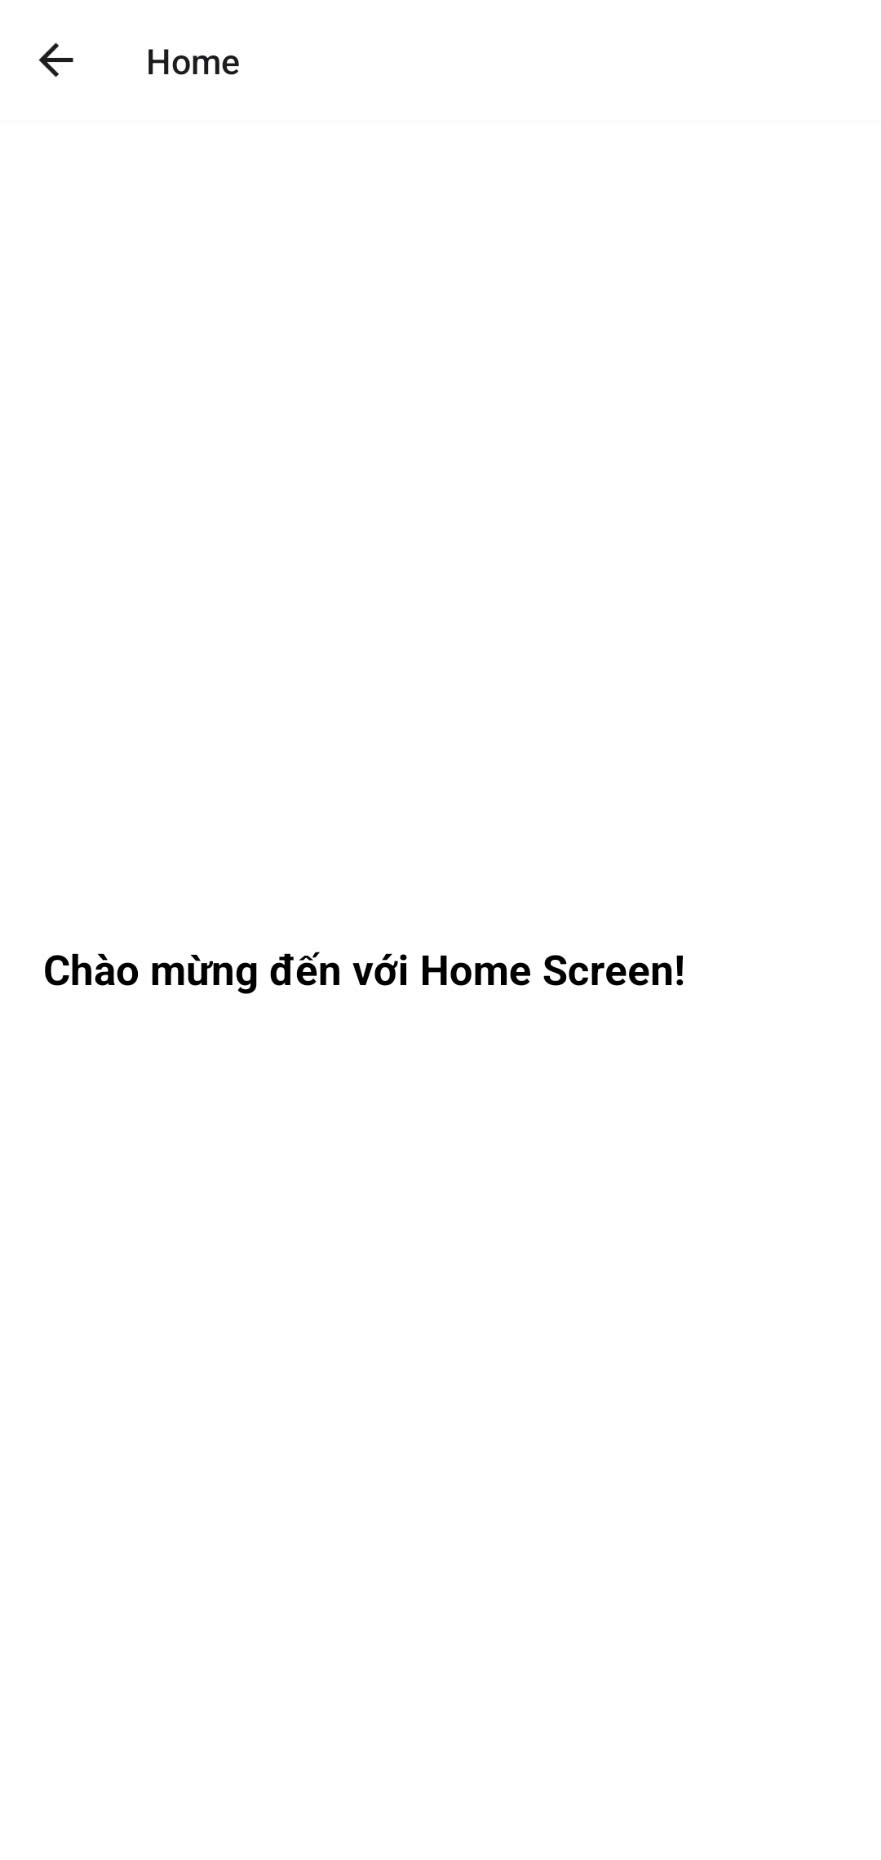
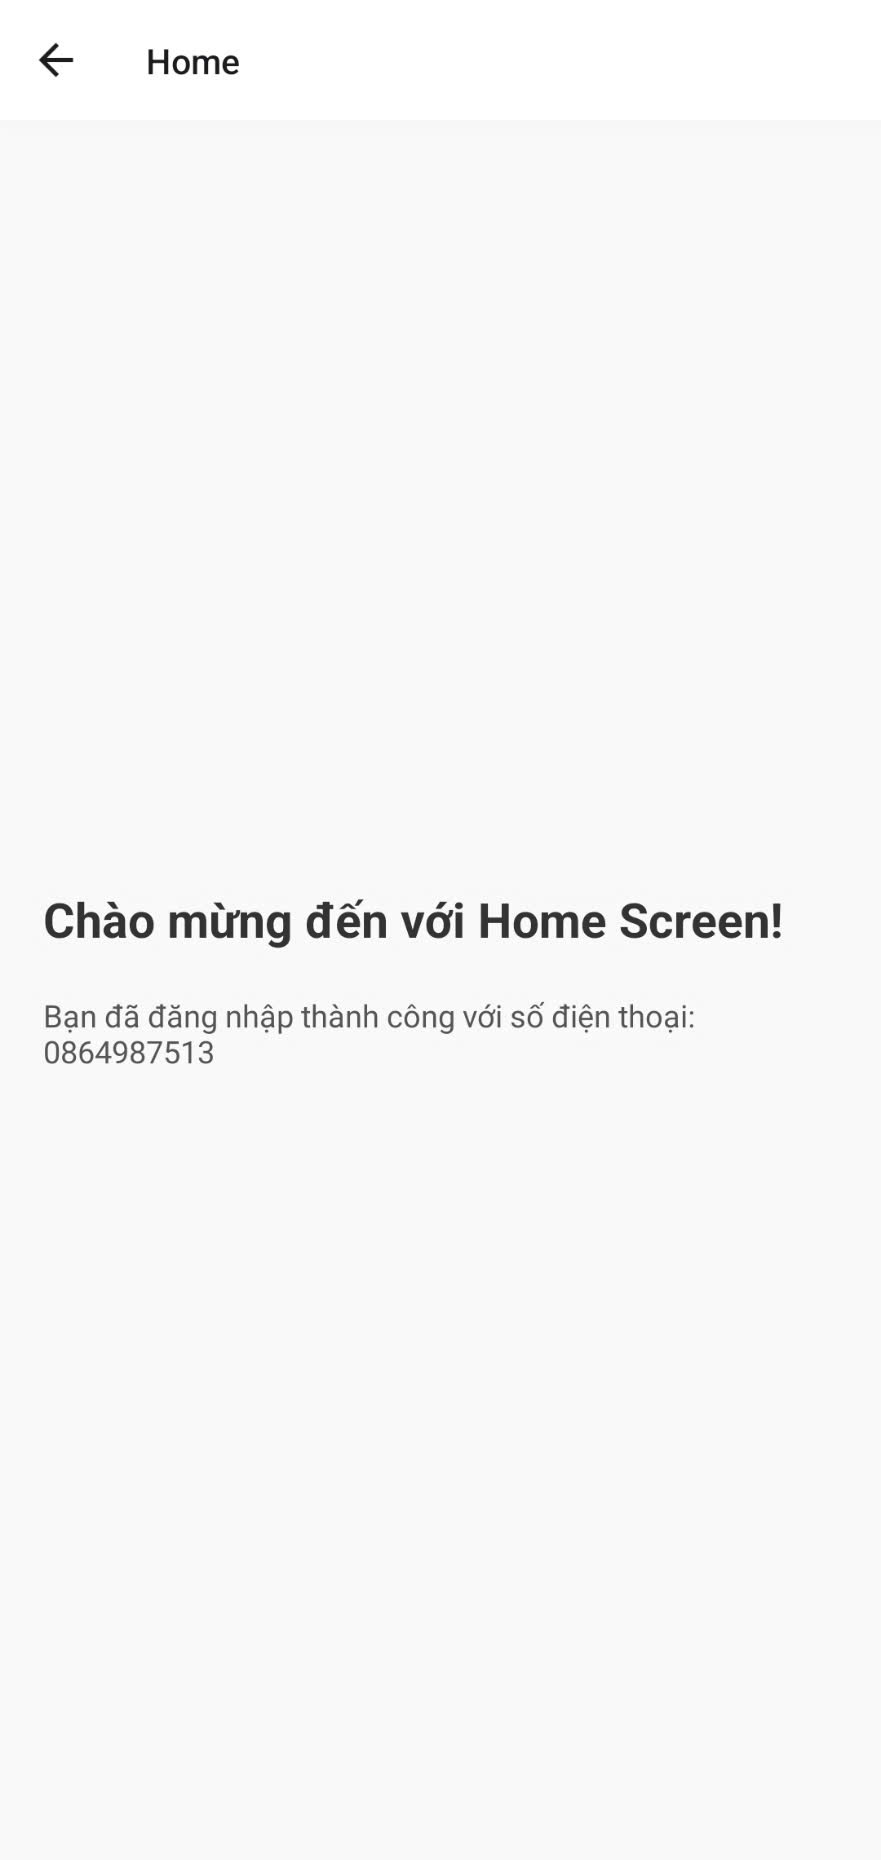
noi dung

Changed region(s): [[0.0306, 0.4677, 0.8888, 0.5925]]

diff --git a/App.js b/App.js
@@ -1,23 +1,28 @@
-import React, { useState, useEffect, useCallback, useMemo, memo } from "react";
+import React, { useState, useEffect, createContext, useContext } from "react";
 import {
   StyleSheet,
   Text,
   View,
   TextInput,
-  Button,
+  TouchableOpacity,
   Alert,
   AppState,
 } from "react-native";
 import { NavigationContainer } from "@react-navigation/native";
 import { createStackNavigator } from "@react-navigation/stack";
 
-const Stack = createStackNavigator();
+// Tạo PhoneContext để lưu số điện thoại
+const PhoneContext = createContext();
 
 // Màn hình Home
 const HomeScreen = () => {
+  const { phone } = useContext(PhoneContext); // Lấy số điện thoại từ context
+
   return (
     <View style={styles.container}>
       <Text style={styles.title}>Chào mừng đến với Home Screen!</Text>
+      {/* Thay đổi văn bản hiển thị số điện thoại */}
+      <Text style={styles.label}>Bạn đã đăng nhập thành công với số điện thoại: {phone}</Text>
     </View>
   );
 };
@@ -25,25 +30,23 @@ const HomeScreen = () => {
 // Màn hình Đăng nhập
 const SignInScreen = ({ navigation }) => {
   const [phone, setPhone] = useState("");
+  const { setPhoneContext } = useContext(PhoneContext); // Hàm để cập nhật số điện thoại vào context
 
-  // Hàm kiểm tra số điện thoại có hợp lệ không
   const validatePhoneNumber = (phone) => {
     const phoneRegex = /^(09|03|07|08|05)\d{8}$/; // Số điện thoại Việt Nam hợp lệ
-    return phoneRegex.test(phone.replace(/\D/g, "")); // Loại bỏ ký tự không phải số và kiểm tra
+    return phoneRegex.test(phone.replace(/\D/g, ""));
   };
 
-  // Hàm xử lý khi nhấn nút "Tiếp tục"
   const handleContinue = () => {
     const cleanedPhone = phone.replace(/\D/g, ""); // Loại bỏ ký tự không phải số
     if (validatePhoneNumber(cleanedPhone)) {
-      // Điều hướng đến HomeScreen khi số điện thoại hợp lệ
-      navigation.navigate("Home");
+      setPhoneContext(cleanedPhone);
+      navigation.navigate("Home"); // Điều hướng đến HomeScreen
     } else {
       Alert.alert("Số điện thoại không hợp lệ!");
     }
   };
 
-  // Hàm tự động định dạng số điện thoại khi nhập
   const formatPhoneNumber = (input) => {
     const cleaned = input.replace(/\D/g, "");
     const formatted = cleaned
@@ -63,10 +66,12 @@ const SignInScreen = ({ navigation }) => {
         style={styles.input}
         placeholder="Nhập số điện thoại của bạn"
         keyboardType="numeric"
-        value={formatPhoneNumber(phone)} // Tự động format số điện thoại khi nhập
-        onChangeText={(text) => setPhone(text)} // Cập nhật state khi nhập
+        value={formatPhoneNumber(phone)}
+        onChangeText={(text) => setPhone(text)}
       />
-      <Button title="Tiếp tục" onPress={handleContinue} />
+      <TouchableOpacity style={styles.button} onPress={handleContinue}>
+        <Text style={styles.buttonText}>Tiếp tục</Text>
+      </TouchableOpacity>
     </View>
   );
 };
@@ -74,11 +79,9 @@ const SignInScreen = ({ navigation }) => {
 // Component chính
 const App = () => {
   const [appState, setAppState] = useState(AppState.currentState);
+  const [phone, setPhoneContext] = useState(""); // State để lưu số điện thoại toàn cục
 
   useEffect(() => {
-    // Hiển thị thông báo chỉ một lần khi ứng dụng được mở
-    Alert.alert("Chào mừng bạn đến với ứng dụng!");
-
     // Lắng nghe sự thay đổi của AppState (foreground/background)
     const subscription = AppState.addEventListener("change", (nextAppState) => {
       setAppState(nextAppState);
@@ -91,31 +94,37 @@ const App = () => {
   }, []);
 
   return (
-    <NavigationContainer>
-      <Stack.Navigator initialRouteName="SignIn">
-        <Stack.Screen name="SignIn" component={SignInScreen} />
-        <Stack.Screen name="Home" component={HomeScreen} />
-      </Stack.Navigator>
-    </NavigationContainer>
+    <PhoneContext.Provider value={{ phone, setPhoneContext }}>
+      <NavigationContainer>
+        <Stack.Navigator initialRouteName="SignIn">
+          <Stack.Screen name="SignIn" component={SignInScreen} />
+          <Stack.Screen name="Home" component={HomeScreen} />
+        </Stack.Navigator>
+      </NavigationContainer>
+    </PhoneContext.Provider>
   );
 };
+
+const Stack = createStackNavigator();
 
 const styles = StyleSheet.create({
   container: {
     flex: 1,
-    backgroundColor: "#fff",
+    backgroundColor: "#f9f9f9",
     padding: 20,
     justifyContent: "center",
   },
   title: {
-    fontSize: 24,
+    fontSize: 28,
     fontWeight: "bold",
     marginBottom: 20,
-    textAlign: "left", // Chữ "Đăng nhập" nằm phía trái màn hình
+    textAlign: "left",
+    color: "#333",
   },
   label: {
     fontSize: 18,
     marginBottom: 10,
+    color: "#555",
   },
   description: {
     fontSize: 14,
@@ -129,6 +138,23 @@ const styles = StyleSheet.create({
     fontSize: 18,
     borderRadius: 5,
     marginBottom: 20,
+    backgroundColor: "#fff",
+    shadowColor: "#000",
+    shadowOffset: { width: 0, height: 2 },
+    shadowOpacity: 0.2,
+    shadowRadius: 3,
+    elevation: 3,
+  },
+  button: {
+    backgroundColor: "#a59dfa",
+    padding: 15,
+    borderRadius: 5,
+    alignItems: "center",
+  },
+  buttonText: {
+    color: "#fff",
+    fontSize: 18,
+    fontWeight: "bold",
   },
 });
 

diff --git a/README.md b/README.md
@@ -3,5 +3,5 @@
 - **Mã SV**: BIT220052
 
 ## Ảnh Chụp Màn Hình
-![alt](home-screen.jpg)
 ![alt](signin-screen.jpg)
+![alt](home-screen.jpg)
